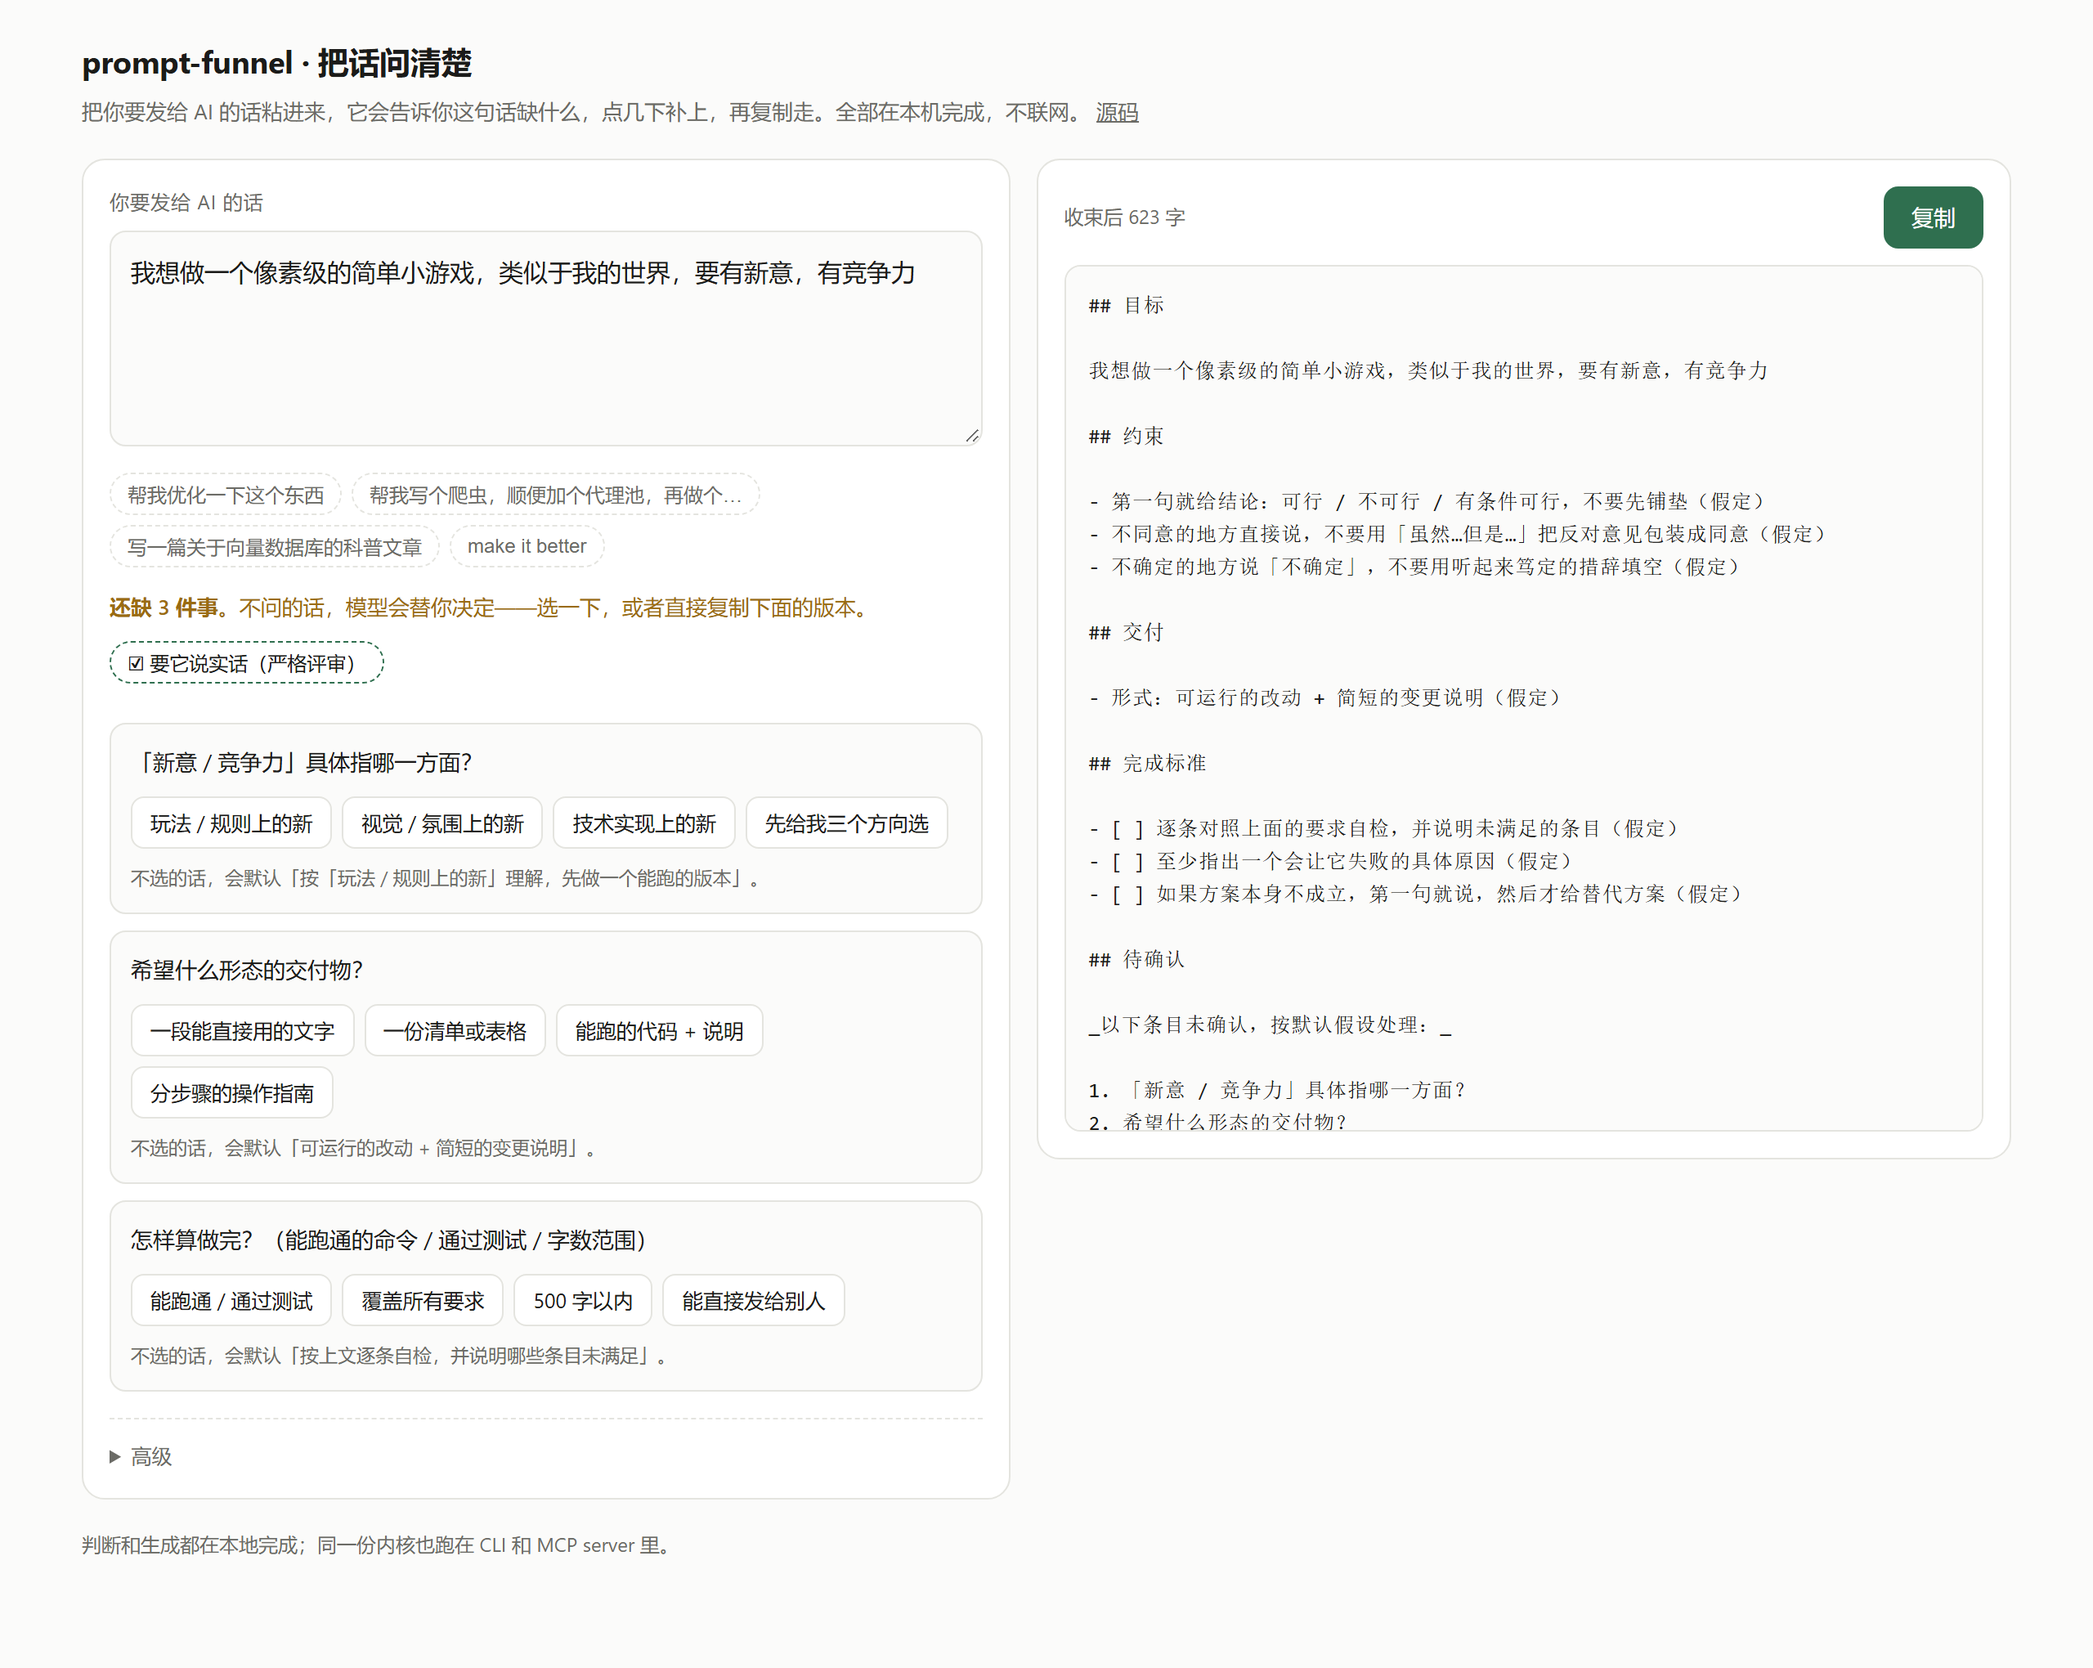
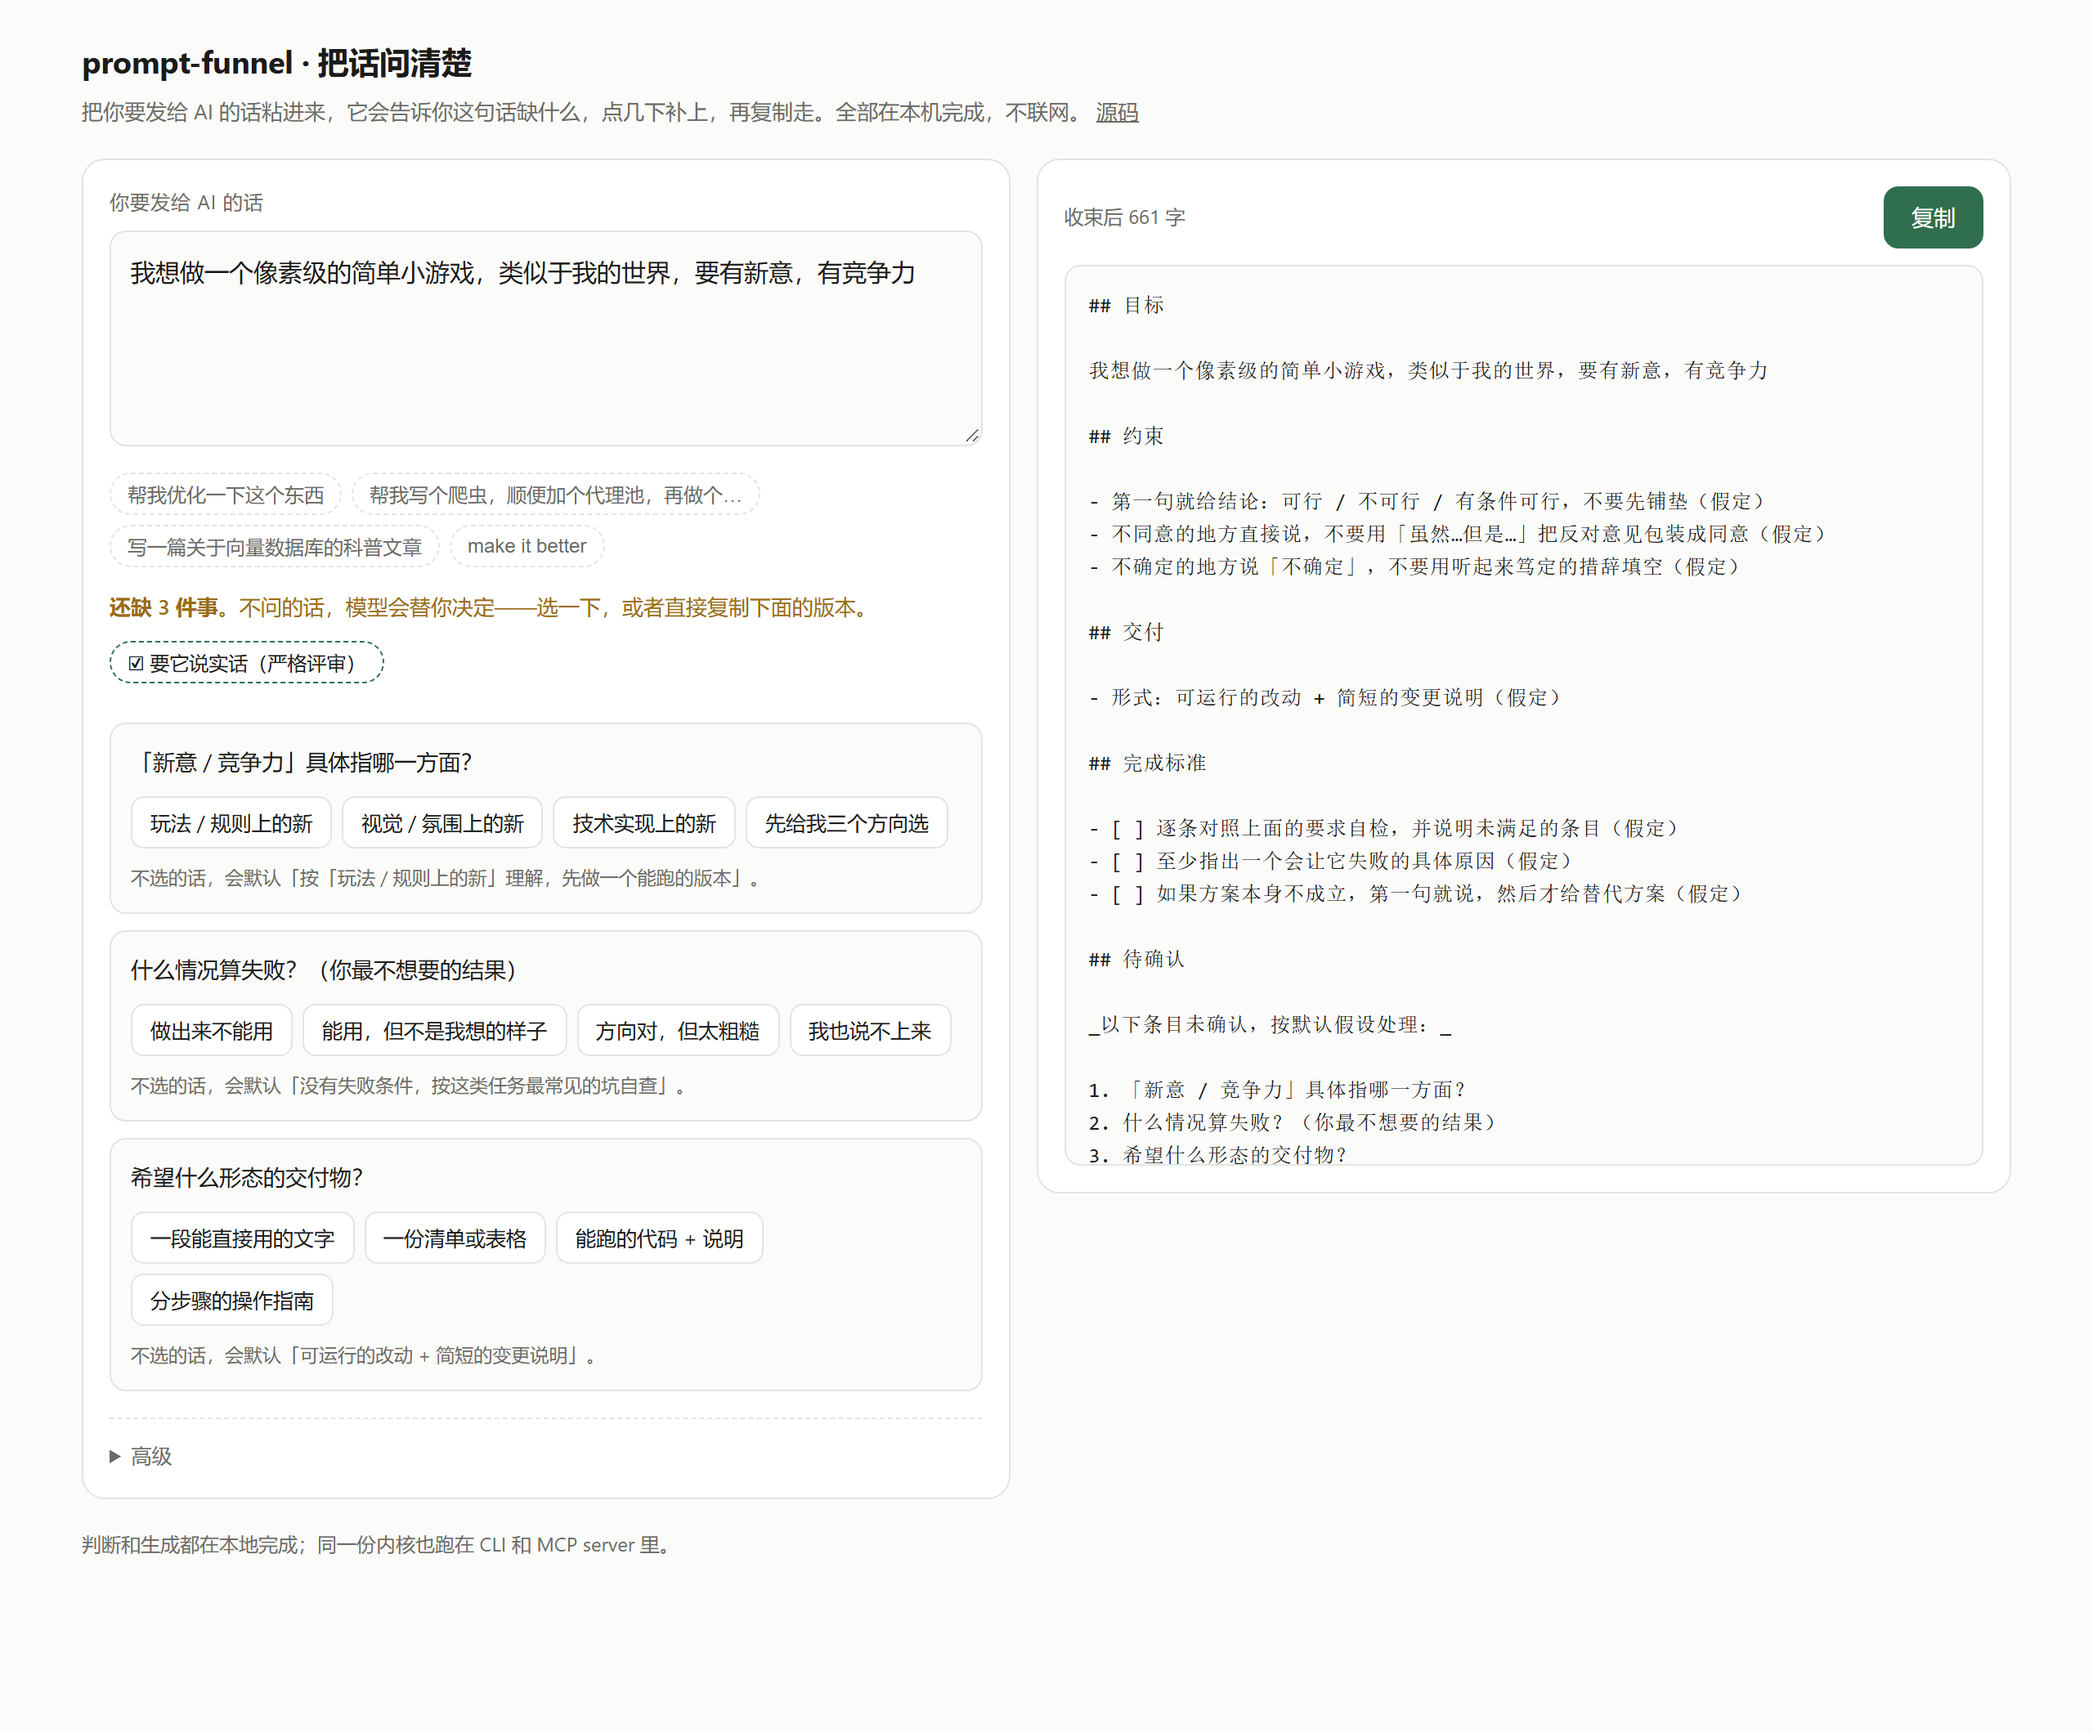
feat: ask what failure looks like
'Done when' is common; 'what would count as a failure' almost never gets asked,
and a failure nobody named is one the model will not avoid. It is now a question
for build/plan/write requests: the answer becomes a negative acceptance
criterion ('不出现：做出来不能用'), and the 'I cannot say' option only removes
the question — it never invents a criterion.

docs/DESIGN.md §10 records the judgment on 'should this call an AI': the model
belongs in the candidate layer (options the user picks, then marked as user
input), never inside the compiler.

diff --git a/src/analyze.ts b/src/analyze.ts
@@ -302,6 +302,7 @@ const GAP_OPTIONS: Record<Lang, Record<string, string[]>> = {
     acceptance: ['能跑通 / 通过测试', '覆盖所有要求', '500 字以内', '能直接发给别人'],
     stack: ['沿用现有技术栈', 'TypeScript / Node', 'Python', '不确定，你来选'],
     quality: ['玩法 / 规则上的新', '视觉 / 氛围上的新', '技术实现上的新', '先给我三个方向选'],
+    failure: ['做出来不能用', '能用，但不是我想的样子', '方向对，但太粗糙', '我也说不上来'],
   },
   en: {
     audience: ['A complete beginner', 'Someone with basics', 'A domain expert', 'Someone deciding something'],
@@ -310,6 +311,7 @@ const GAP_OPTIONS: Record<Lang, Record<string, string[]>> = {
     acceptance: ['It runs / tests pass', 'It covers every requirement', 'Under 500 words', 'I can send it to someone'],
     stack: ['The existing stack', 'TypeScript / Node', 'Python', 'Not sure, you pick'],
     quality: ['New mechanics', 'New look and feel', 'New technical approach', 'Give me three directions first'],
+    failure: ['It does not run', 'It runs but is not what I meant', 'Right direction, too rough', 'I cannot say'],
   },
 };
 
@@ -362,6 +364,27 @@ function collectGaps(
       question: content.gaps.scope.question,
       options: GAP_OPTIONS[lang].scope ?? [],
       assumption: { text: content.gaps.scope.assumption, impact: content.gaps.scope.impact },
+    });
+  }
+  if (intent === 'execute' || intent === 'plan' || intent === 'write') {
+    gaps.push({
+      id: 'failure',
+      rank: 2,
+      question:
+        lang === 'zh'
+          ? '什么情况算失败？（你最不想要的结果）'
+          : 'What would count as a failure here?',
+      options: GAP_OPTIONS[lang].failure ?? [],
+      assumption: {
+        text:
+          lang === 'zh'
+            ? '没有失败条件，按这类任务最常见的坑自查'
+            : 'No stated failure mode; check against the usual traps for this kind of task',
+        impact:
+          lang === 'zh'
+            ? '不说清什么算失败，模型不会主动避开它'
+            : 'A failure you never named is one the model will not avoid',
+      },
     });
   }
   if (deliverable.format === undefined) {

diff --git a/src/questions.ts b/src/questions.ts
@@ -42,6 +42,9 @@ function renumber(requirements: Requirement[]): Requirement[] {
   return requirements.map((requirement, index) => ({ ...requirement, id: `R${index + 1}` }));
 }
 
+/** The "no opinion" option: answering it should not invent a criterion. */
+const NO_FAILURE_STATED = /^(?:我也说不上来|I cannot say)$/u;
+
 /** The option that asks the model to propose directions instead of committing. */
 const ASK_FOR_OPTIONS = /^(?:先给我三个方向选|Give me three directions first)$/u;
 
@@ -92,6 +95,11 @@ export function answerQuestion(spec: PromptSpec, id: string, answer: string): Pr
       } else {
         next.constraints.push({ text: `「新意 / 竞争力」的落点：${text}`, source: 'user' });
       }
+      break;
+    case 'failure':
+      // A failure mode is an acceptance criterion in the negative: "this must not
+      // happen". "I cannot say" is a real answer and adds nothing.
+      if (!NO_FAILURE_STATED.test(text)) next.acceptance.push({ text: `不出现：${text}`, source: 'user' });
       break;
     case 'scope':
       // Scope choices narrow the work; they belong with the constraints, not the

diff --git a/src/version.ts b/src/version.ts
@@ -1,5 +1,5 @@
 /** Single source of truth for the reported version. */
-export const VERSION = '0.5.0';
+export const VERSION = '0.6.0';
 
 
 

diff --git a/docs/DESIGN.md b/docs/DESIGN.md
@@ -147,6 +147,41 @@
 5. **没有测「模型最终回答是否更好」**。离线评测只测编译质量；要做 A/B 需要真实模型与评审，见 [EVAL.md](./EVAL.md) 里给出的方法。
 6. **MCP 路径没有专属 UI**，确认发生在对话里，比前端插件多两次 tool call 的延迟。
 
+## 10. 要不要加一个 AI
+
+「用户只有一个模糊但很好的想法，工具能不能给点灵感」——这个需求是真的，但「加一个 AI」不是一个决定，是三个完全不同的决定。
+
+### 三种加法，代价差一个数量级
+
+| 做法 | 延迟 | 成本 | 可审计 | 编造风险 | 评价 |
+| --- | --- | --- | --- | --- | --- |
+| 本地规则 + 手工方向库 | 0ms | 0 | 完全 | 无 | 默认该走这条 |
+| 调用一个模型生成候选 | 1–3s | 每次一次调用 | 弱（内容不可追溯） | 有 | 可选、显式、用户触发 |
+| 模型直接改写提示词 | 1–3s | 每次 | 无 | 高 | **不做** |
+
+现在这个工具的全部承诺——确定性、可审计、不编造、不联网——都建立在第一行上。把模型塞进编译流程，这三条会同时变弱，而它们正是被验证过的部分。
+
+### 边界原则：模型只能出现在「候选层」
+
+真正需要模型的地方是**生成候选**：给用户三个方向，让他挑一个。挑选之前，那些方向只是「建议」，不是需求。
+
+```
+模型生成候选 → 用户点选 → 被选中的那条 source: 'user' → 进入 spec
+```
+
+用户没选的东西**永远不进提示词**。这样保真校验仍然成立（提示词里每一句要么是用户说的，要么标了「假定」），而灵感由模型提供。这是唯一能同时拿到两边的结构。
+
+### 为什么不让模型直接改写
+
+一旦模型直接写 spec，就回到「重写」那条老路：写出来的东西看起来专业、来源不可追溯，而且它一定比用户更「懂」——于是用户的原始意图被悄悄替换成一个更顺滑的版本。这个工具存在的理由就是防止这件事。
+
+### 所以加不加
+
+- **问轴，不要给答案**：用户说「要有新意」时，先问「新意落在玩法、视觉还是技术」。他答得上来，问题就解决了；答不上来，再给候选。**先给候选会把用户框在别人的三个方向里。**
+- **失败条件比灵感更值钱**：「什么情况算失败」几乎没人问，但它决定了模型会不会主动避开那个坑。这一条不需要 AI，已经默认在问了。
+- **要加，就加在选择层**：一个显式的「给我三个方向」按钮，调用用户自己的模型（MCP 宿主或自带 key），输出只进候选列表，永不直接进提示词。
+- **不要默认开**：每次请求都先给三个方向，等于把用户的想法替换成模型的三个模板。这是最隐蔽的一种「不尊重用户」。
+
 ## 参考
 
 - Liu et al., *Lost in the Middle: How Language Models Use Long Contexts*, TACL 2024 — [doi](https://direct.mit.edu/tacl/article/doi/10.1162/tacl_a_00638/119630/Lost-in-the-Middle-How-Language-Models-Use-Long)

diff --git a/CHANGELOG.md b/CHANGELOG.md
@@ -1,5 +1,12 @@
 # 变更记录
 
+## 0.6.0
+
+- **失败条件问题**：「什么情况算失败？」几乎没人问，但它决定了模型会不会主动避开那个坑。选前三个选项会变成一条反面验收标准（`不出现：做出来不能用`）；选「我也说不上来」只会撤掉问题，不替你编标准。
+- 成本随之变化：默认档中位 264 → 304 tokens（多一个待确认问题）；`docs/COST.md` 与 README 数字已同步。
+- `docs/DESIGN.md §10` 记录「要不要加一个 AI」的判断：模型只能待在候选层，永不直接改写提示词。
+- 测试 117 → 121。
+
 ## 0.5.0
 
 - **空洞形容词变成选择题**：「新意 / 竞争力 / 亮点 / 高级感」这类无法验证的词，现在会被单独拎出来问一句：落在玩法、视觉、技术，还是「先给我三个方向挑」。选后者会在提示词里加一条「先给 3 个方向，各一句话说明取舍，等我选定再展开」——方向由模型提，不由规则引擎编。

diff --git a/docs/COST.md b/docs/COST.md
@@ -7,11 +7,11 @@
 | 排版 | 中位 tokens | 相对原文的绝对开销 |
 | --- | --- | --- |
 | 原文 | 18 | — |
-| `bluf` + 附原文（默认） | 263 | **+245** |
-| `bluf` | 228 | +210 |
-| `compact` + 附原文 | 184 | +166 |
-| `compact` | 154 | +136 |
-| `checklist` | 123 | **+105** |
+| `bluf` + 附原文（默认） | 290 | **+272** |
+| `bluf` | 251 | +233 |
+| `compact` + 附原文 | 204 | +186 |
+| `compact` | 166 | +148 |
+| `checklist` | 135 | **+117** |
 
 复现：`node evals/cost.mjs`
 
